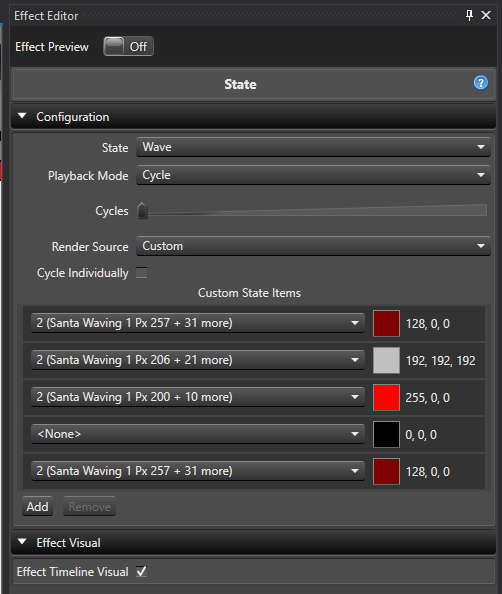
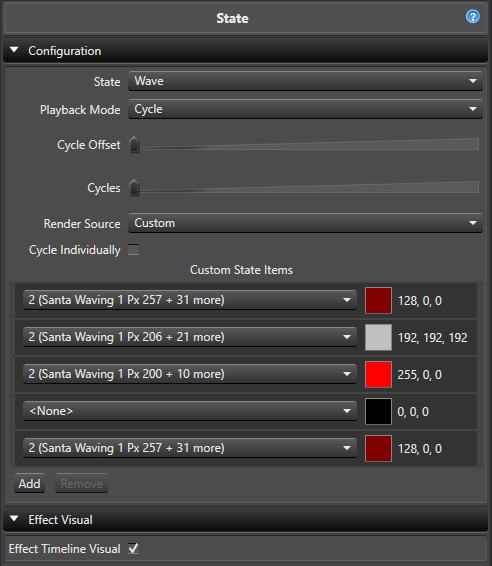
docs(state effect): Updated for the new cycle offset

Changed region(s): [[0.0, 0.0, 1.0, 1.0], [0.7927, 0.7809, 0.9146, 0.811], [0.7927, 0.7208, 0.8841, 0.7509]]

diff --git a/content/en/docs/usage/sequencer/effects/basic/state/index.md b/content/en/docs/usage/sequencer/effects/basic/state/index.md
@@ -24,6 +24,7 @@ The effect looks for a State property anywhere on the target element or its desc
   * **Default** All active State Items render together for the full effect duration.
   * **Cycle** Active State Items render one after another, splitting the effect duration between them.
 * **Cycles** Only shown when **Playback Mode** is **Cycle**. Sets how many times the full sequence of active State Items repeats across the effect duration. Ranges from 1 to 20 and defaults to 1.
+* **Cycle Offset** Only shown when **Playback Mode** is **Cycle**. Shifts which slot in the cycle renders first, without changing slot durations, grouping, colors, marks, assignments, or how many times the sequence repeats. Ranges from 0 to 100 and defaults to 0. For example, a cycle of `Red`, `Green`, `Blue` with a Cycle Offset of 1 starts on `Green` and continues `Green`, `Blue`, `Red`. The offset is taken modulo the current number of slots in the cycle, so a value equal to (or a multiple of) the slot count has no visible effect, and any value up to 100 wraps around sensibly regardless of how many slots the cycle currently has. The shift is applied once, before **Cycles** repeats the sequence — so an offset of 1 on `Red`, `Green`, `Blue` with 2 Cycles renders `Green`, `Blue`, `Red`, `Green`, `Blue`, `Red`, not a rotation of the already-repeated six-item sequence. This behaves consistently across all three **Render Source** options; see the notes under each below.
 * **Render Source** Selects how the effect decides which State Items are active.
   * **State Item** Uses one selected State Item, or all of them.
   * **Mark Collection** Uses [Marks][1] to activate State Items by name over time.
@@ -43,6 +44,8 @@ Shown only when **Render Source** is **State Item**.
 
 If the selected State Item name is later renamed, the effect keeps following it and displays the new name. If it's deleted, the effect keeps the missing selection and renders nothing until you choose `<All>` or another valid name.
 
+When **Playback Mode** is **Cycle** and **State Item** is `<All>`, **Cycle Offset** shifts which unique State Item name starts the sequence — the remaining names still follow in their original order and wrap back to the beginning. A specific single-name selection isn't a cycling sequence, so Cycle Offset has no effect on it.
+
 ---
 
 ### Mark Collection
@@ -57,6 +60,8 @@ Each mark's label can contain one or more comma-separated State Item names, for 
 * In **Cycle** mode, each comma-separated segment gets an equal share of the mark's duration, repeated **Cycles** times, and renders in the order listed — so `Open, Closed, Open` produces three intervals, not two.
 
 If the Mark Collection is deleted, the selection clears and the effect renders nothing until you choose another one.
+
+In **Cycle** mode, **Cycle Offset** shifts which comma-separated segment starts each mark's cycle independently — every mark rotates its own segment list rather than being offset against other marks. Blank and unrecognized segments still count as slots, so they shift along with the rest and keep consuming their share of time; the offset never removes or reorders which segments are blank.
 
 ---
 
@@ -79,6 +84,8 @@ Rules that apply to the row list:
 * Switching **Playback Mode** from **Cycle** to **Default** automatically removes `<None>` rows and any duplicate rows for the same State Item, keeping the first occurrence of each.
 * Switching **Render Source** to **Custom** adds one starter row automatically if the list is empty and the State definition has at least one State Item. At least one row is required while **Custom** is active.
 * Changing the top-level **State** selection clears the **Custom State Items** list and, if **Custom** is still selected, reseeds it with one row for the newly selected definition's first State Item.
+
+In **Cycle** mode, **Cycle Offset** shifts which row (or, with **Cycle Individually** unchecked, which group of consecutive same-item rows) starts the sequence. Rows and groups keep their existing order, color overrides, and `<None>`/missing-selection blank slots — the offset only changes the starting point, and grouped rows continue to move and render together after the shift.
 
 #### Cycle Individually
 
